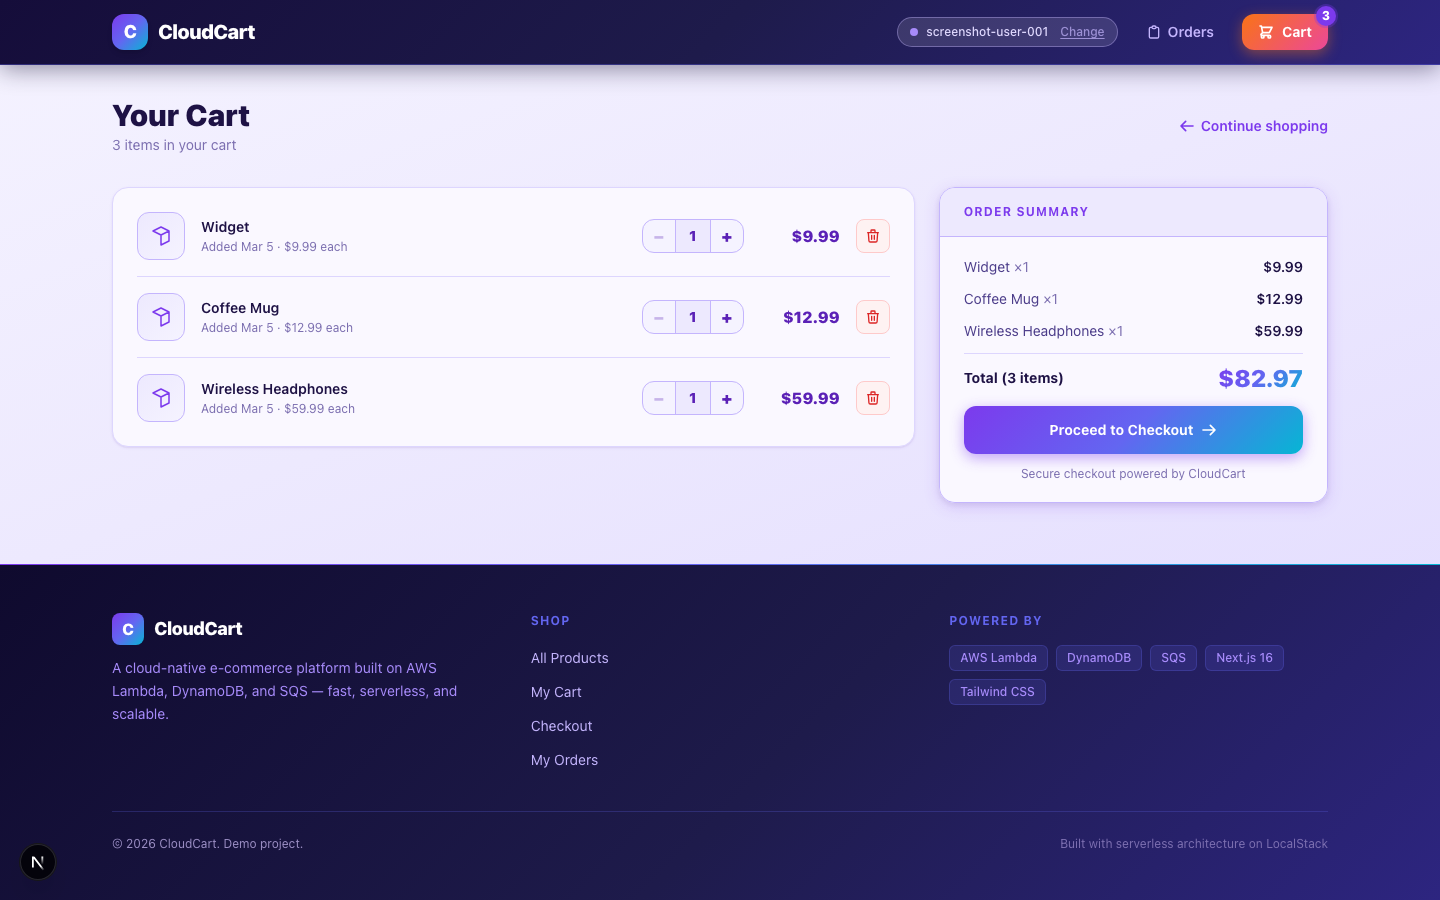
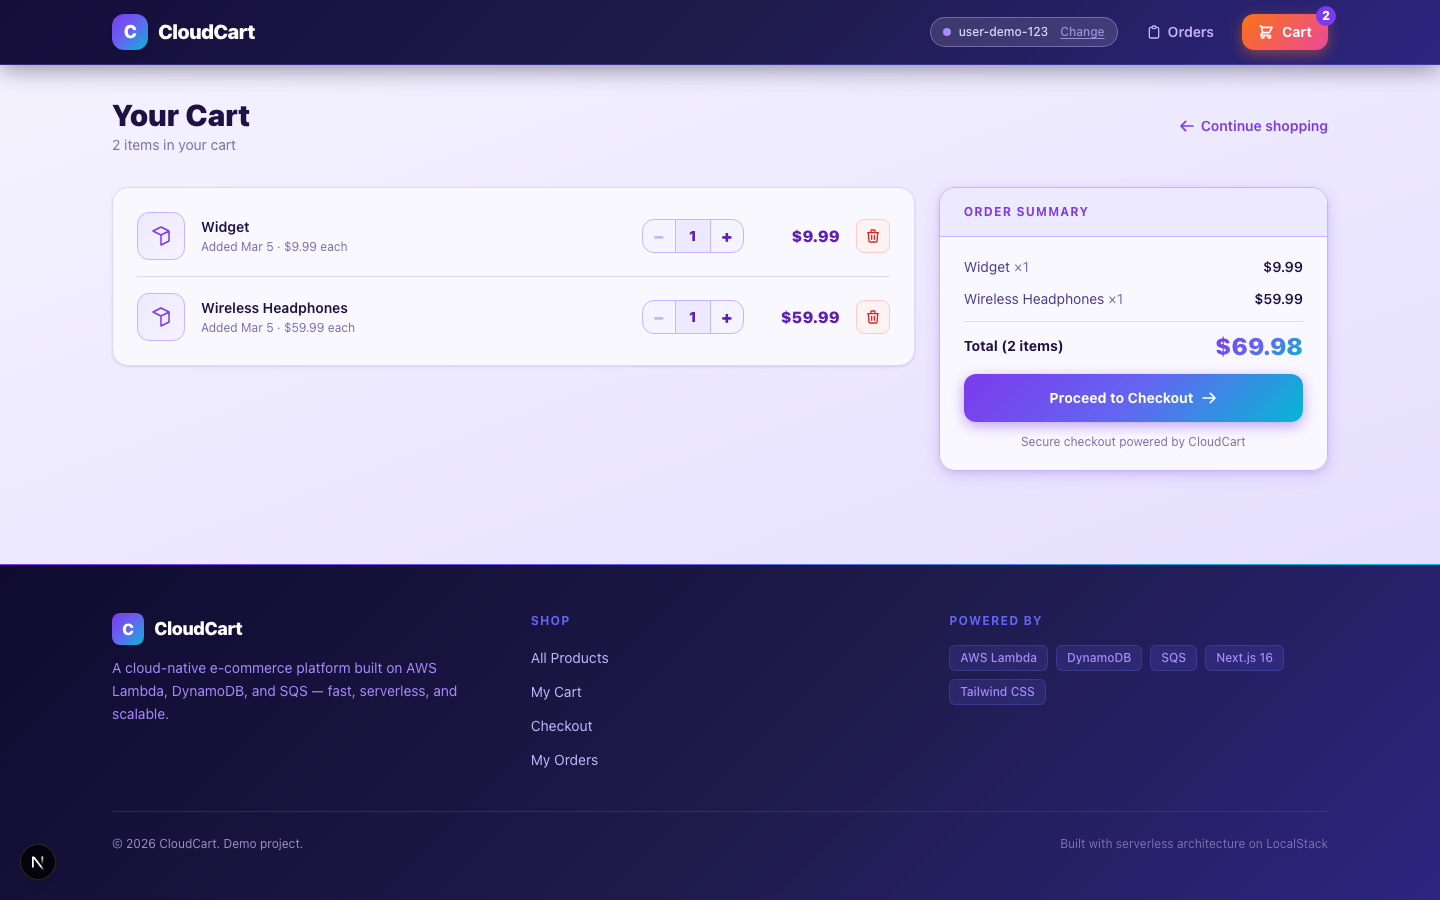
Default to userid4 and update screenshots
Skip welcome modal by defaulting to userid4 in localStorage on first
visit so products load immediately without user input.

diff --git a/cloudcart-frontend/app/layout.tsx b/cloudcart-frontend/app/layout.tsx
@@ -18,12 +18,9 @@ export default function RootLayout({
 
   useEffect(() => {
     setMounted(true);
-    const stored = localStorage.getItem("cc_user_id");
-    if (stored) {
-      setUserId(stored);
-    } else {
-      setShowPrompt(true);
-    }
+    const stored = localStorage.getItem("cc_user_id") || "userid4";
+    localStorage.setItem("cc_user_id", stored);
+    setUserId(stored);
   }, []);
 
   function handleSetUser() {
